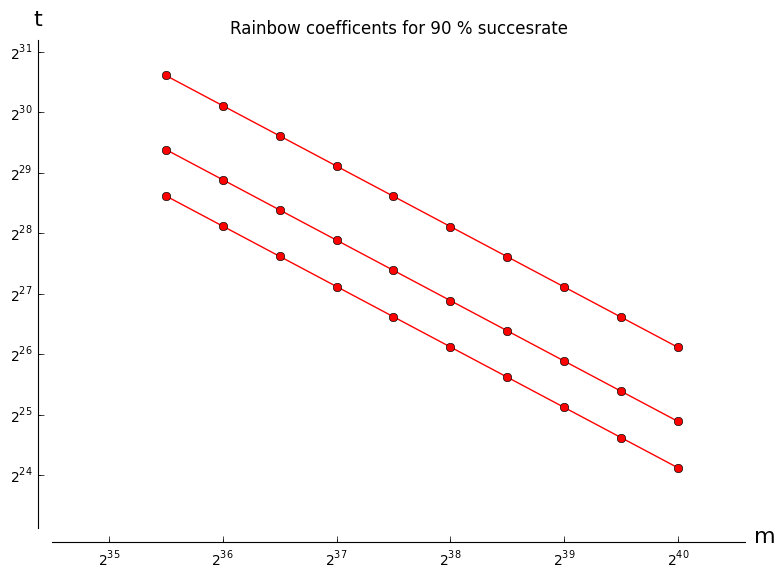
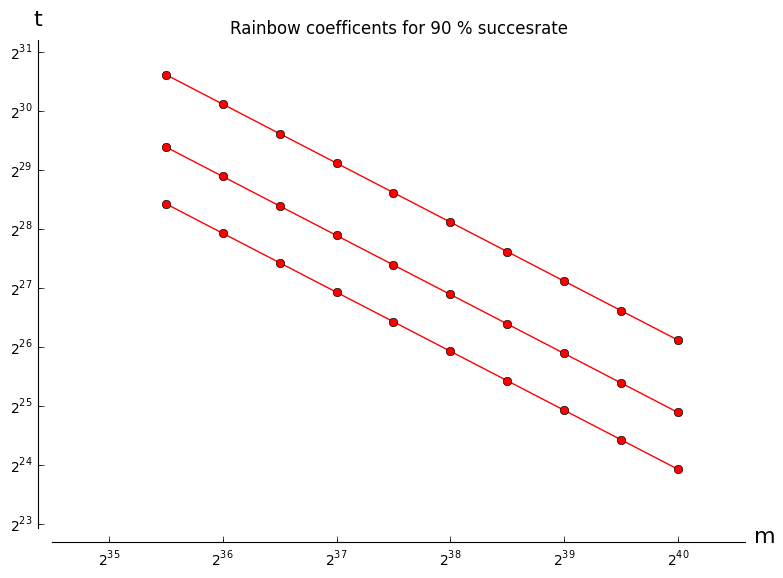
more fixups and done conclusion. report should be finished

diff --git a/report/Appendix2.tex b/report/Appendix2.tex
@@ -193,19 +193,19 @@ $2^{13.50}$ & $2^{24.83}$ & $2^{27.17}$ & $13.96$ TB & $2^{52.00}$ \\
 \section{Rainbow Table Parameters}
 \label{sec:rainbowtab}
 \begin{table}[h!]\centering
- \ \text{\texttt{Success{ }={ }0.580000,{ }Rmsc{ }={ }1.086067,{ }l{ }={ }1,{ }Offline{ }phase{ }={ }2{\char`\^}64.119113}}
+ \ \text{\texttt{Success{ }={ }0.540000,{ }Rmsc{ }={ }1.086067,{ }l{ }={ }1,{ }Offline{ }phase{ }={ }2{\char`\^}64.119113}}
 \begin{tabular}{llll}
 m & t & M(TB) & T \\ \hline
-$2^{35.50}$ & $2^{28.62}$ & $0.39$ & $2^{55.43}$ \\
-$2^{36.00}$ & $2^{28.12}$ & $0.55$ & $2^{54.43}$ \\
-$2^{36.50}$ & $2^{27.62}$ & $0.78$ & $2^{53.43}$ \\
-$2^{37.00}$ & $2^{27.12}$ & $1.10$ & $2^{52.43}$ \\
-$2^{37.50}$ & $2^{26.62}$ & $1.55$ & $2^{51.43}$ \\
-$2^{38.00}$ & $2^{26.12}$ & $2.20$ & $2^{50.43}$ \\
-$2^{38.50}$ & $2^{25.62}$ & $3.11$ & $2^{49.43}$ \\
-$2^{39.00}$ & $2^{25.12}$ & $4.40$ & $2^{48.43}$ \\
-$2^{39.50}$ & $2^{24.62}$ & $6.22$ & $2^{47.43}$ \\
-$2^{40.00}$ & $2^{24.12}$ & $8.80$ & $2^{46.43}$ \\
+$2^{35.50}$ & $2^{28.42}$ & $0.39$ & $2^{55.61}$ \\
+$2^{36.00}$ & $2^{27.92}$ & $0.55$ & $2^{54.61}$ \\
+$2^{36.50}$ & $2^{27.42}$ & $0.78$ & $2^{53.61}$ \\
+$2^{37.00}$ & $2^{26.92}$ & $1.10$ & $2^{52.61}$ \\
+$2^{37.50}$ & $2^{26.42}$ & $1.55$ & $2^{51.61}$ \\
+$2^{38.00}$ & $2^{25.92}$ & $2.20$ & $2^{50.61}$ \\
+$2^{38.50}$ & $2^{25.42}$ & $3.11$ & $2^{49.61}$ \\
+$2^{39.00}$ & $2^{24.92}$ & $4.40$ & $2^{48.61}$ \\
+$2^{39.50}$ & $2^{24.42}$ & $6.22$ & $2^{47.61}$ \\
+$2^{40.00}$ & $2^{23.92}$ & $8.80$ & $2^{46.61}$ \\
 \end{tabular}
 \end{table}
 
@@ -214,34 +214,34 @@ $2^{40.00}$ & $2^{24.12}$ & $8.80$ & $2^{46.43}$ \\
   \text{\texttt{Success{ }={ }0.900000,{ }Rmsc{ }={ }4.324555,{ }l{ }={ }1,{ }Offline{ }phase{ }={ }2{\char`\^}66.112552}}
   \begin{tabular}{llll}
     m & t & M(TB) & T \\ \hline
-    $2^{35.50}$ & $2^{30.61}$ & $0.39$ & $2^{58.19}$ \\
-    $2^{36.00}$ & $2^{30.11}$ & $0.55$ & $2^{57.19}$ \\
-    $2^{36.50}$ & $2^{29.61}$ & $0.78$ & $2^{56.19}$ \\
-    $2^{37.00}$ & $2^{29.11}$ & $1.10$ & $2^{55.19}$ \\
-    $2^{37.50}$ & $2^{28.61}$ & $1.55$ & $2^{54.19}$ \\
-    $2^{38.00}$ & $2^{28.11}$ & $2.20$ & $2^{53.19}$ \\
-    $2^{38.50}$ & $2^{27.61}$ & $3.11$ & $2^{52.19}$ \\
-    $2^{39.00}$ & $2^{27.11}$ & $4.40$ & $2^{51.19}$ \\
-    $2^{39.50}$ & $2^{26.61}$ & $6.22$ & $2^{50.19}$ \\
-    $2^{40.00}$ & $2^{26.11}$ & $8.80$ & $2^{49.19}$ \\
+    $2^{35.50}$ & $2^{30.61}$ & $0.39$ & $2^{60.20}$ \\
+    $2^{36.00}$ & $2^{30.11}$ & $0.55$ & $2^{59.20}$ \\
+    $2^{36.50}$ & $2^{29.61}$ & $0.78$ & $2^{58.20}$ \\
+    $2^{37.00}$ & $2^{29.11}$ & $1.10$ & $2^{57.20}$ \\
+    $2^{37.50}$ & $2^{28.61}$ & $1.55$ & $2^{56.20}$ \\
+    $2^{38.00}$ & $2^{28.11}$ & $2.20$ & $2^{55.20}$ \\
+    $2^{38.50}$ & $2^{27.61}$ & $3.11$ & $2^{54.20}$ \\
+    $2^{39.00}$ & $2^{27.11}$ & $4.40$ & $2^{53.20}$ \\
+    $2^{39.50}$ & $2^{26.61}$ & $6.22$ & $2^{52.20}$ \\
+    $2^{40.00}$ & $2^{26.11}$ & $8.80$ & $2^{51.20}$ \\
   \end{tabular}
 \end{table}
 
 
 \begin{table}[h!]\centering
-  \text{\texttt{Success{ }={ }0.580000,{ }Rmsc{ }={ }0.311116,{ }l{ }={ }3,{ }Offline{ }phase{ }={ }2{\char`\^}63.900488}}
+  \text{\texttt{Success{ }={ }0.540000,{ }Rmsc{ }={ }0.311116,{ }l{ }={ }3,{ }Offline{ }phase{ }={ }2{\char`\^}63.900488}}
   \begin{tabular}{llll}
     m & t & M(TB) & T \\ \hline
-    $2^{35.50}$ & $2^{26.82}$ & $1.17$ & $2^{53.11}$ \\
-    $2^{36.00}$ & $2^{26.32}$ & $1.65$ & $2^{52.11}$ \\
-    $2^{36.50}$ & $2^{25.82}$ & $2.33$ & $2^{51.11}$ \\
-    $2^{37.00}$ & $2^{25.32}$ & $3.30$ & $2^{50.11}$ \\
-    $2^{37.50}$ & $2^{24.82}$ & $4.66$ & $2^{49.11}$ \\
-    $2^{38.00}$ & $2^{24.32}$ & $6.60$ & $2^{48.11}$ \\
-    $2^{38.50}$ & $2^{23.82}$ & $9.33$ & $2^{47.11}$ \\
-    $2^{39.00}$ & $2^{23.32}$ & $13.19$ & $2^{46.11}$ \\
-    $2^{39.50}$ & $2^{22.82}$ & $18.66$ & $2^{45.11}$ \\
-    $2^{40.00}$ & $2^{22.32}$ & $26.39$ & $2^{44.11}$ \\
+    $2^{35.50}$ & $2^{26.64}$ & $1.17$ & $2^{52.18}$ \\
+    $2^{36.00}$ & $2^{26.14}$ & $1.65$ & $2^{51.18}$ \\
+    $2^{36.50}$ & $2^{25.64}$ & $2.33$ & $2^{50.18}$ \\
+    $2^{37.00}$ & $2^{25.14}$ & $3.30$ & $2^{49.18}$ \\
+    $2^{37.50}$ & $2^{24.64}$ & $4.66$ & $2^{48.18}$ \\
+    $2^{38.00}$ & $2^{24.14}$ & $6.60$ & $2^{47.18}$ \\
+    $2^{38.50}$ & $2^{23.64}$ & $9.33$ & $2^{46.18}$ \\
+    $2^{39.00}$ & $2^{23.14}$ & $13.19$ & $2^{45.18}$ \\
+    $2^{39.50}$ & $2^{22.64}$ & $18.66$ & $2^{44.18}$ \\
+    $2^{40.00}$ & $2^{22.14}$ & $26.39$ & $2^{43.18}$ \\
   \end{tabular}
 \end{table}
 
@@ -249,16 +249,16 @@ $2^{40.00}$ & $2^{24.12}$ & $8.80$ & $2^{46.43}$ \\
   \text{\texttt{Success{ }={ }0.730000,{ }Rmsc{ }={ }0.487727,{ }l{ }={ }3,{ }Offline{ }phase{ }={ }2{\char`\^}64.549108}}
   \begin{tabular}{llll}
     m & t & M(TB) & T \\ \hline
-    $2^{35.50}$ & $2^{27.46}$ & $1.17$ & $2^{53.84}$ \\
-    $2^{36.00}$ & $2^{26.96}$ & $1.65$ & $2^{52.84}$ \\
-    $2^{36.50}$ & $2^{26.46}$ & $2.33$ & $2^{51.84}$ \\
-    $2^{37.00}$ & $2^{25.96}$ & $3.30$ & $2^{50.84}$ \\
-    $2^{37.50}$ & $2^{25.46}$ & $4.66$ & $2^{49.84}$ \\
-    $2^{38.00}$ & $2^{24.96}$ & $6.60$ & $2^{48.84}$ \\
-    $2^{38.50}$ & $2^{24.46}$ & $9.33$ & $2^{47.84}$ \\
-    $2^{39.00}$ & $2^{23.96}$ & $13.19$ & $2^{46.84}$ \\
-    $2^{39.50}$ & $2^{23.46}$ & $18.66$ & $2^{45.84}$ \\
-    $2^{40.00}$ & $2^{22.96}$ & $26.39$ & $2^{44.84}$ \\
+    $2^{35.50}$ & $2^{27.46}$ & $1.17$ & $2^{53.76}$ \\
+    $2^{36.00}$ & $2^{26.96}$ & $1.65$ & $2^{52.76}$ \\
+    $2^{36.50}$ & $2^{26.46}$ & $2.33$ & $2^{51.76}$ \\
+    $2^{37.00}$ & $2^{25.96}$ & $3.30$ & $2^{50.76}$ \\
+    $2^{37.50}$ & $2^{25.46}$ & $4.66$ & $2^{49.76}$ \\
+    $2^{38.00}$ & $2^{24.96}$ & $6.60$ & $2^{48.76}$ \\
+    $2^{38.50}$ & $2^{24.46}$ & $9.33$ & $2^{47.76}$ \\
+    $2^{39.00}$ & $2^{23.96}$ & $13.19$ & $2^{46.76}$ \\
+    $2^{39.50}$ & $2^{23.46}$ & $18.66$ & $2^{45.76}$ \\
+    $2^{40.00}$ & $2^{22.96}$ & $26.39$ & $2^{44.76}$ \\
   \end{tabular}
 \end{table}
 
@@ -266,16 +266,16 @@ $2^{40.00}$ & $2^{24.12}$ & $8.80$ & $2^{46.43}$ \\
   \text{\texttt{Success{ }={ }0.900000,{ }Rmsc{ }={ }0.935599,{ }l{ }={ }3,{ }Offline{ }phase{ }={ }2{\char`\^}65.488924}}
   \begin{tabular}{llll}
     m & t & M(TB) & T \\ \hline
-    $2^{35.50}$ & $2^{28.40}$ & $1.17$ & $2^{54.46}$ \\
-    $2^{36.00}$ & $2^{27.90}$ & $1.65$ & $2^{53.46}$ \\
-    $2^{36.50}$ & $2^{27.40}$ & $2.33$ & $2^{52.46}$ \\
-    $2^{37.00}$ & $2^{26.90}$ & $3.30$ & $2^{51.46}$ \\
-    $2^{37.50}$ & $2^{26.40}$ & $4.66$ & $2^{50.46}$ \\
-    $2^{38.00}$ & $2^{25.90}$ & $6.60$ & $2^{49.46}$ \\
-    $2^{38.50}$ & $2^{25.40}$ & $9.33$ & $2^{48.46}$ \\
-    $2^{39.00}$ & $2^{24.90}$ & $13.19$ & $2^{47.46}$ \\
-    $2^{39.50}$ & $2^{24.40}$ & $18.66$ & $2^{46.46}$ \\
-    $2^{40.00}$ & $2^{23.90}$ & $26.39$ & $2^{45.46}$ \\
+    $2^{35.50}$ & $2^{28.40}$ & $1.17$ & $2^{55.57}$ \\
+    $2^{36.00}$ & $2^{27.90}$ & $1.65$ & $2^{54.57}$ \\
+    $2^{36.50}$ & $2^{27.40}$ & $2.33$ & $2^{53.57}$ \\
+    $2^{37.00}$ & $2^{26.90}$ & $3.30$ & $2^{52.57}$ \\
+    $2^{37.50}$ & $2^{26.40}$ & $4.66$ & $2^{51.57}$ \\
+    $2^{38.00}$ & $2^{25.90}$ & $6.60$ & $2^{50.57}$ \\
+    $2^{38.50}$ & $2^{25.40}$ & $9.33$ & $2^{49.57}$ \\
+    $2^{39.00}$ & $2^{24.90}$ & $13.19$ & $2^{48.57}$ \\
+    $2^{39.50}$ & $2^{24.40}$ & $18.66$ & $2^{47.57}$ \\
+    $2^{40.00}$ & $2^{23.90}$ & $26.39$ & $2^{46.57}$ \\
   \end{tabular}
 \end{table}
 \section{Rainbow Table Graphs}

diff --git a/src/math/rainbowtab.tex b/src/math/rainbowtab.tex
@@ -1,28 +1,85 @@
 
- \ \text{\texttt{Success{ }={ }0.870000,{ }Rmsc{ }={ }3.547002,{ }l{ }={ }1,{ }Offline{ }phase{ }={ }2{\char`\^}33.826600}}
+ \ \text{\texttt{Success{ }={ }0.540000,{ }Rmsc{ }={ }0.948839,{ }l{ }={ }1,{ }Offline{ }phase{ }={ }2{\char`\^}63.924235}}
 \begin{tabular}{llll}
 m & t & M(TB) & T \\ \hline
-$2^{25.00}$ & $2^{8.83}$ & $134.22$ & $2^{16.54}$ \\
-$2^{25.20}$ & $2^{8.63}$ & $154.18$ & $2^{16.14}$ \\
-$2^{25.40}$ & $2^{8.43}$ & $177.10$ & $2^{15.74}$ \\
-$2^{25.60}$ & $2^{8.23}$ & $203.44$ & $2^{15.34}$ \\
-$2^{25.80}$ & $2^{8.03}$ & $233.69$ & $2^{14.94}$ \\
+$2^{35.50}$ & $2^{28.42}$ & $0.39$ & $2^{55.61}$ \\
+$2^{36.00}$ & $2^{27.92}$ & $0.55$ & $2^{54.61}$ \\
+$2^{36.50}$ & $2^{27.42}$ & $0.78$ & $2^{53.61}$ \\
+$2^{37.00}$ & $2^{26.92}$ & $1.10$ & $2^{52.61}$ \\
+$2^{37.50}$ & $2^{26.42}$ & $1.55$ & $2^{51.61}$ \\
+$2^{38.00}$ & $2^{25.92}$ & $2.20$ & $2^{50.61}$ \\
+$2^{38.50}$ & $2^{25.42}$ & $3.11$ & $2^{49.61}$ \\
+$2^{39.00}$ & $2^{24.92}$ & $4.40$ & $2^{48.61}$ \\
+$2^{39.50}$ & $2^{24.42}$ & $6.22$ & $2^{47.61}$ \\
+$2^{40.00}$ & $2^{23.92}$ & $8.80$ & $2^{46.61}$ \\
 \end{tabular}
- \ \text{\texttt{Success{ }={ }0.890000,{ }Rmsc{ }={ }4.030227,{ }l{ }={ }1,{ }Offline{ }phase{ }={ }2{\char`\^}34.010861}}
+ \ \text{\texttt{Success{ }={ }0.730000,{ }Rmsc{ }={ }1.849002,{ }l{ }={ }1,{ }Offline{ }phase{ }={ }2{\char`\^}64.886747}}
 \begin{tabular}{llll}
 m & t & M(TB) & T \\ \hline
-$2^{25.00}$ & $2^{9.01}$ & $134.22$ & $2^{16.96}$ \\
-$2^{25.20}$ & $2^{8.81}$ & $154.18$ & $2^{16.56}$ \\
-$2^{25.40}$ & $2^{8.61}$ & $177.10$ & $2^{16.16}$ \\
-$2^{25.60}$ & $2^{8.41}$ & $203.44$ & $2^{15.76}$ \\
-$2^{25.80}$ & $2^{8.21}$ & $233.69$ & $2^{15.36}$ \\
+$2^{35.50}$ & $2^{29.39}$ & $0.39$ & $2^{57.52}$ \\
+$2^{36.00}$ & $2^{28.89}$ & $0.55$ & $2^{56.52}$ \\
+$2^{36.50}$ & $2^{28.39}$ & $0.78$ & $2^{55.52}$ \\
+$2^{37.00}$ & $2^{27.89}$ & $1.10$ & $2^{54.52}$ \\
+$2^{37.50}$ & $2^{27.39}$ & $1.55$ & $2^{53.52}$ \\
+$2^{38.00}$ & $2^{26.89}$ & $2.20$ & $2^{52.52}$ \\
+$2^{38.50}$ & $2^{26.39}$ & $3.11$ & $2^{51.52}$ \\
+$2^{39.00}$ & $2^{25.89}$ & $4.40$ & $2^{50.52}$ \\
+$2^{39.50}$ & $2^{25.39}$ & $6.22$ & $2^{49.52}$ \\
+$2^{40.00}$ & $2^{24.89}$ & $8.80$ & $2^{48.52}$ \\
 \end{tabular}
- \ \text{\texttt{Success{ }={ }0.730000,{ }Rmsc{ }={ }1.849002,{ }l{ }={ }1,{ }Offline{ }phase{ }={ }2{\char`\^}32.886747}}
+ \ \text{\texttt{Success{ }={ }0.900000,{ }Rmsc{ }={ }4.324555,{ }l{ }={ }1,{ }Offline{ }phase{ }={ }2{\char`\^}66.112552}}
 \begin{tabular}{llll}
-m & t & M(MB) & T \\ \hline
-$2^{25.00}$ & $2^{7.89}$ & $134.22$ & $2^{14.52}$ \\
-$2^{25.20}$ & $2^{7.69}$ & $154.18$ & $2^{14.12}$ \\
-$2^{25.40}$ & $2^{7.49}$ & $177.10$ & $2^{13.72}$ \\
-$2^{25.60}$ & $2^{7.29}$ & $203.44$ & $2^{13.32}$ \\
-$2^{25.80}$ & $2^{7.09}$ & $233.69$ & $2^{12.92}$ \\
+m & t & M(TB) & T \\ \hline
+$2^{35.50}$ & $2^{30.61}$ & $0.39$ & $2^{60.20}$ \\
+$2^{36.00}$ & $2^{30.11}$ & $0.55$ & $2^{59.20}$ \\
+$2^{36.50}$ & $2^{29.61}$ & $0.78$ & $2^{58.20}$ \\
+$2^{37.00}$ & $2^{29.11}$ & $1.10$ & $2^{57.20}$ \\
+$2^{37.50}$ & $2^{28.61}$ & $1.55$ & $2^{56.20}$ \\
+$2^{38.00}$ & $2^{28.11}$ & $2.20$ & $2^{55.20}$ \\
+$2^{38.50}$ & $2^{27.61}$ & $3.11$ & $2^{54.20}$ \\
+$2^{39.00}$ & $2^{27.11}$ & $4.40$ & $2^{53.20}$ \\
+$2^{39.50}$ & $2^{26.61}$ & $6.22$ & $2^{52.20}$ \\
+$2^{40.00}$ & $2^{26.11}$ & $8.80$ & $2^{51.20}$ \\
+\end{tabular}
+ \ \text{\texttt{Success{ }={ }0.540000,{ }Rmsc{ }={ }0.276339,{ }l{ }={ }3,{ }Offline{ }phase{ }={ }2{\char`\^}63.729476}}
+\begin{tabular}{llll}
+m & t & M(TB) & T \\ \hline
+$2^{35.50}$ & $2^{26.64}$ & $1.17$ & $2^{52.18}$ \\
+$2^{36.00}$ & $2^{26.14}$ & $1.65$ & $2^{51.18}$ \\
+$2^{36.50}$ & $2^{25.64}$ & $2.33$ & $2^{50.18}$ \\
+$2^{37.00}$ & $2^{25.14}$ & $3.30$ & $2^{49.18}$ \\
+$2^{37.50}$ & $2^{24.64}$ & $4.66$ & $2^{48.18}$ \\
+$2^{38.00}$ & $2^{24.14}$ & $6.60$ & $2^{47.18}$ \\
+$2^{38.50}$ & $2^{23.64}$ & $9.33$ & $2^{46.18}$ \\
+$2^{39.00}$ & $2^{23.14}$ & $13.19$ & $2^{45.18}$ \\
+$2^{39.50}$ & $2^{22.64}$ & $18.66$ & $2^{44.18}$ \\
+$2^{40.00}$ & $2^{22.14}$ & $26.39$ & $2^{43.18}$ \\
+\end{tabular}
+ \ \text{\texttt{Success{ }={ }0.730000,{ }Rmsc{ }={ }0.487727,{ }l{ }={ }3,{ }Offline{ }phase{ }={ }2{\char`\^}64.549108}}
+\begin{tabular}{llll}
+m & t & M(TB) & T \\ \hline
+$2^{35.50}$ & $2^{27.46}$ & $1.17$ & $2^{53.76}$ \\
+$2^{36.00}$ & $2^{26.96}$ & $1.65$ & $2^{52.76}$ \\
+$2^{36.50}$ & $2^{26.46}$ & $2.33$ & $2^{51.76}$ \\
+$2^{37.00}$ & $2^{25.96}$ & $3.30$ & $2^{50.76}$ \\
+$2^{37.50}$ & $2^{25.46}$ & $4.66$ & $2^{49.76}$ \\
+$2^{38.00}$ & $2^{24.96}$ & $6.60$ & $2^{48.76}$ \\
+$2^{38.50}$ & $2^{24.46}$ & $9.33$ & $2^{47.76}$ \\
+$2^{39.00}$ & $2^{23.96}$ & $13.19$ & $2^{46.76}$ \\
+$2^{39.50}$ & $2^{23.46}$ & $18.66$ & $2^{45.76}$ \\
+$2^{40.00}$ & $2^{22.96}$ & $26.39$ & $2^{44.76}$ \\
+\end{tabular}
+ \ \text{\texttt{Success{ }={ }0.900000,{ }Rmsc{ }={ }0.935599,{ }l{ }={ }3,{ }Offline{ }phase{ }={ }2{\char`\^}65.488924}}
+\begin{tabular}{llll}
+m & t & M(TB) & T \\ \hline
+$2^{35.50}$ & $2^{28.40}$ & $1.17$ & $2^{55.57}$ \\
+$2^{36.00}$ & $2^{27.90}$ & $1.65$ & $2^{54.57}$ \\
+$2^{36.50}$ & $2^{27.40}$ & $2.33$ & $2^{53.57}$ \\
+$2^{37.00}$ & $2^{26.90}$ & $3.30$ & $2^{52.57}$ \\
+$2^{37.50}$ & $2^{26.40}$ & $4.66$ & $2^{51.57}$ \\
+$2^{38.00}$ & $2^{25.90}$ & $6.60$ & $2^{50.57}$ \\
+$2^{38.50}$ & $2^{25.40}$ & $9.33$ & $2^{49.57}$ \\
+$2^{39.00}$ & $2^{24.90}$ & $13.19$ & $2^{48.57}$ \\
+$2^{39.50}$ & $2^{24.40}$ & $18.66$ & $2^{47.57}$ \\
+$2^{40.00}$ & $2^{23.90}$ & $26.39$ & $2^{46.57}$ \\
 \end{tabular}

diff --git a/report/concl.tex b/report/concl.tex
@@ -1,11 +1,11 @@
 \chapter{Conclusion}
 \label{ch:concl}
-A summary of the main part of the text
-A deduction made on the basis of the main body
-Your personal opinion on what has been discussed
-A statement about the limitations of the work
-A comment about the future based on what has been discussed
-The implications of the work for future research
+% A summary of the main part of the text
+% A deduction made on the basis of the main body
+% Your personal opinion on what has been discussed
+% A statement about the limitations of the work
+% A comment about the future based on what has been discussed
+% The implications of the work for future research
 
 In this project we tried to analyze a practical attack on the KASUMI
 block cipher by implementing a time-memory trade-off attack. We
@@ -23,11 +23,23 @@ data. Read times and lookups in tables will prove to be a huge
 hindrance if the attack is to be performed on the full keyspace of
 \code{64-bit}.
 
-If the attack is to be considered doable the combined approach of 
-rainbow and DP attacks should definitely a part of the
-implementation. 
+But even then, when compared to previous attacks, the online time
+required for the attack matches up and even exceeds most of the
+previous attacks performed on KASUMI. This is done attacking the 2G
+compatible version of KASUMI, but nonetheless it attacks the full key
+and every round key.
 
-%%% Local Variables:
-%%% mode: latex
-%%% TeX-master: "Thesis"
-%%% End:
+If the attack is to be considered doable the combined approach of 
+rainbow and DP attacks should definitely be a part of the
+implementation. Additional storage improvements might also be needed
+to reach optimal lookup times.
+
+An approach where GPUs is used for parallelization is also something
+that should be explored in more depth, as these contains computing
+power exceeding the CPUs at a much cheaper price.
+
+If these points gets looked into, we can look at an actual attack on
+KASUMI that can be performed in days using a relatively cheap
+setup, assuming a rainbow table is computed.
+
+

diff --git a/report/param.tex b/report/param.tex
@@ -25,11 +25,7 @@ time. Since generated TMTO tables for a \code{64-bit} key size will
 always be larger than a given built machines amount of RAM, look-ups are
 done directly on a HDD or SSD. Estimates of how much time is required
 for each lookup in a table is hard to do, but will be further analyzed
-<<<<<<< HEAD
-later in the thesis.
-=======
-in \ref{ch:Analysis}
->>>>>>> gg
+in \ref{ch:anal}.
 
 As for success probability of the
 the different attacks, we went with $P = 73\%$ as an acceptable
@@ -176,17 +172,16 @@ and \ref{fig:time73} shows the graphical representation of the table.
   \text{\texttt{Success{ }={ }0.730000,{ }Rmsc{ }={ }1.849002,{ }l{ }={ }1,{ }Offline{ }phase{ }={ }2{\char`\^}64.886747}}
   \begin{tabular}{llll}
     m & t & M(TB) & T \\ \hline
-    $2^{35.50}$ & $2^{29.39}$ & $0.39$ & $2^{56.58}$ \\
-    $2^{36.00}$ & $2^{28.89}$ & $0.55$ & $2^{55.58}$ \\
-    $2^{36.50}$ & $2^{28.39}$ & $0.78$ & $2^{54.58}$ \\
-    $2^{37.00}$ & $2^{27.89}$ & $1.10$ & $2^{53.58}$ \\
-    $2^{37.50}$ & $2^{27.39}$ & $1.55$ & $2^{52.58}$ \\
-    $2^{38.00}$ & $2^{26.89}$ & $2.20$ & $2^{51.58}$ \\
-    $2^{38.50}$ & $2^{26.39}$ & $3.11$ & $2^{50.58}$ \\
-    $2^{39.00}$ & $2^{25.89}$ & $4.40$ & $2^{49.58}$ \\
-    $2^{39.50}$ & $2^{25.39}$ & $6.22$ & $2^{48.58}$ \\
-    $2^{39.80}$ & $2^{25.08}$ & $7.65$ & $2^{47.98}$ \\
-    $2^{40.00}$ & $2^{24.89}$ & $8.80$ & $2^{47.58}$ \\
+    $2^{35.50}$ & $2^{29.39}$ & $0.39$ & $2^{57.52}$ \\
+    $2^{36.00}$ & $2^{28.89}$ & $0.55$ & $2^{56.52}$ \\
+    $2^{36.50}$ & $2^{28.39}$ & $0.78$ & $2^{55.52}$ \\
+    $2^{37.00}$ & $2^{27.89}$ & $1.10$ & $2^{54.52}$ \\
+    $2^{37.50}$ & $2^{27.39}$ & $1.55$ & $2^{53.52}$ \\
+    $2^{38.00}$ & $2^{26.89}$ & $2.20$ & $2^{52.52}$ \\
+    $2^{38.50}$ & $2^{26.39}$ & $3.11$ & $2^{51.52}$ \\
+    $2^{39.00}$ & $2^{25.89}$ & $4.40$ & $2^{50.52}$ \\
+    $2^{39.50}$ & $2^{25.39}$ & $6.22$ & $2^{49.52}$ \\
+    $2^{40.00}$ & $2^{24.89}$ & $8.80$ & $2^{48.52}$ \\
   \end{tabular}
   \caption{Rainbow Parameters}
   \label{tab:rainparam}

diff --git a/report/kasumi.tex b/report/kasumi.tex
@@ -157,7 +157,7 @@ In 2001 an impossible differential attack on a 6 round KASUMI was proposed\cite{
   \end{tabular}
   \captionsetup{justification=centering}
   \caption[justification=centering]{Summary of attacks - \textbf{HOD}: Higher Order
-    Differential Attack - \textbf{ID}: Impossible Differential Attack}  - \textbf{RKR}: Related Key Rectangle Attack}  - \textbf{RKS}: Related Key Sandwich attack}
+    Differential Attack - \textbf{ID}: Impossible Differential Attack  - \textbf{RKR}: Related Key Rectangle Attack  - \textbf{RKS}: Related Key Sandwich attack}
   \label{tab:kasumiattacks}
 \end{table}
 
